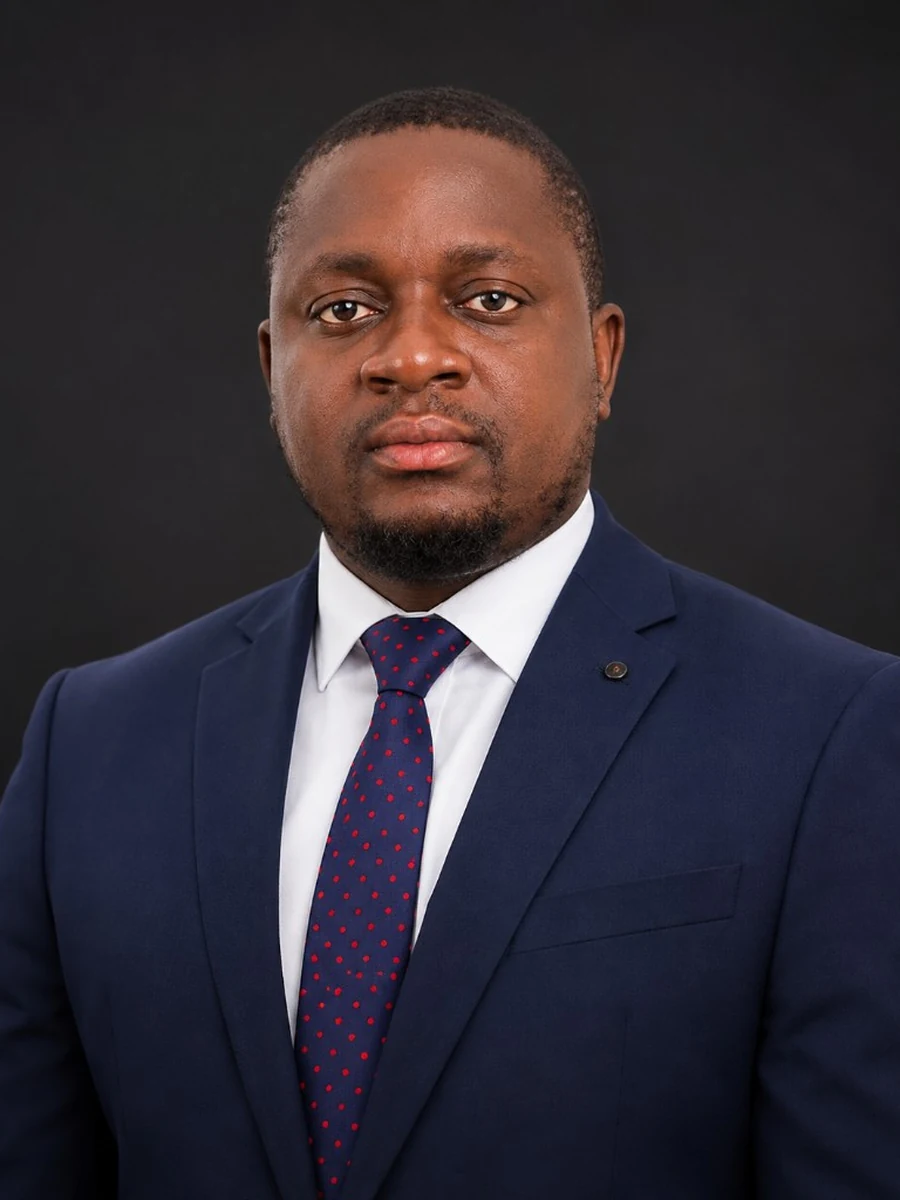
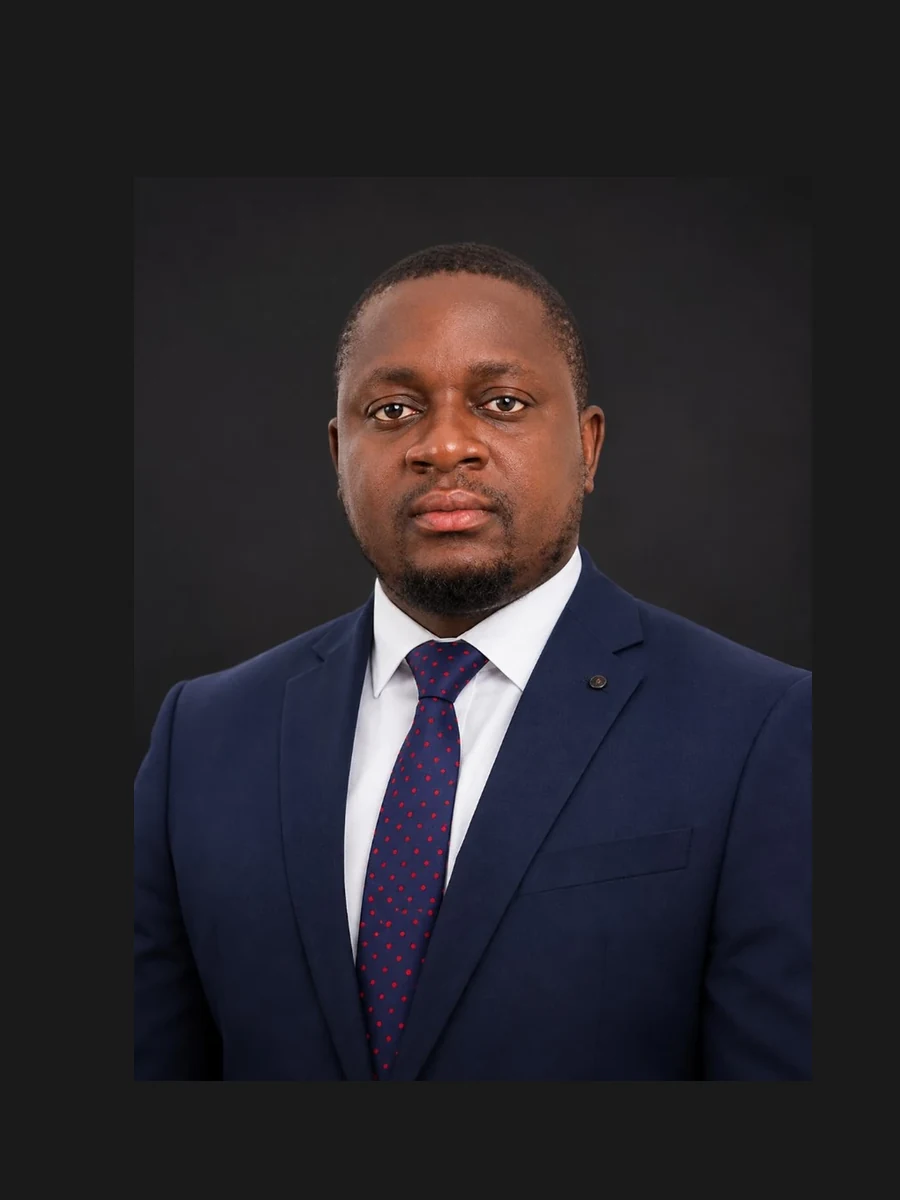
Align people portraits, strengthen the share-card brand plate, and fix top-of-page nav highlighting.

diff --git a/script.js b/script.js
@@ -60,18 +60,31 @@ const setCurrentNav = (id) => {
   });
 };
 
-if (sections.length && "IntersectionObserver" in window) {
-  const navObserver = new IntersectionObserver(
-    (entries) => {
-      const visible = entries
-        .filter((entry) => entry.isIntersecting)
-        .sort((a, b) => b.intersectionRatio - a.intersectionRatio)[0];
-      if (visible?.target?.id) setCurrentNav(visible.target.id);
-    },
-    { threshold: [0.18, 0.4, 0.6], rootMargin: "-18% 0px -48% 0px" },
-  );
-  sections.forEach((section) => navObserver.observe(section));
-}
+const syncNavFromScroll = () => {
+  if (!sections.length) return;
+  // At the hero / very top, no section should claim the nav.
+  if (window.scrollY < 80) {
+    setCurrentNav(null);
+    return;
+  }
+  const headerOffset = 100;
+  const focusY = window.scrollY + window.innerHeight * 0.28;
+  let active = null;
+  for (const section of sections) {
+    const top = section.offsetTop - headerOffset;
+    const bottom = top + section.offsetHeight;
+    if (focusY >= top && focusY < bottom) {
+      active = section.id;
+      break;
+    }
+  }
+  setCurrentNav(active);
+};
+
+setCurrentNav(null);
+syncNavFromScroll();
+window.addEventListener("scroll", syncNavFromScroll, { passive: true });
+window.addEventListener("hashchange", () => requestAnimationFrame(syncNavFromScroll));
 
 const copy = {
   en: {

diff --git a/styles.css b/styles.css
@@ -771,7 +771,7 @@ h2 {
   width: 100%;
   height: 100%;
   object-fit: cover;
-  object-position: center 10%;
+  object-position: center center;
 }
 
 .person-card {
